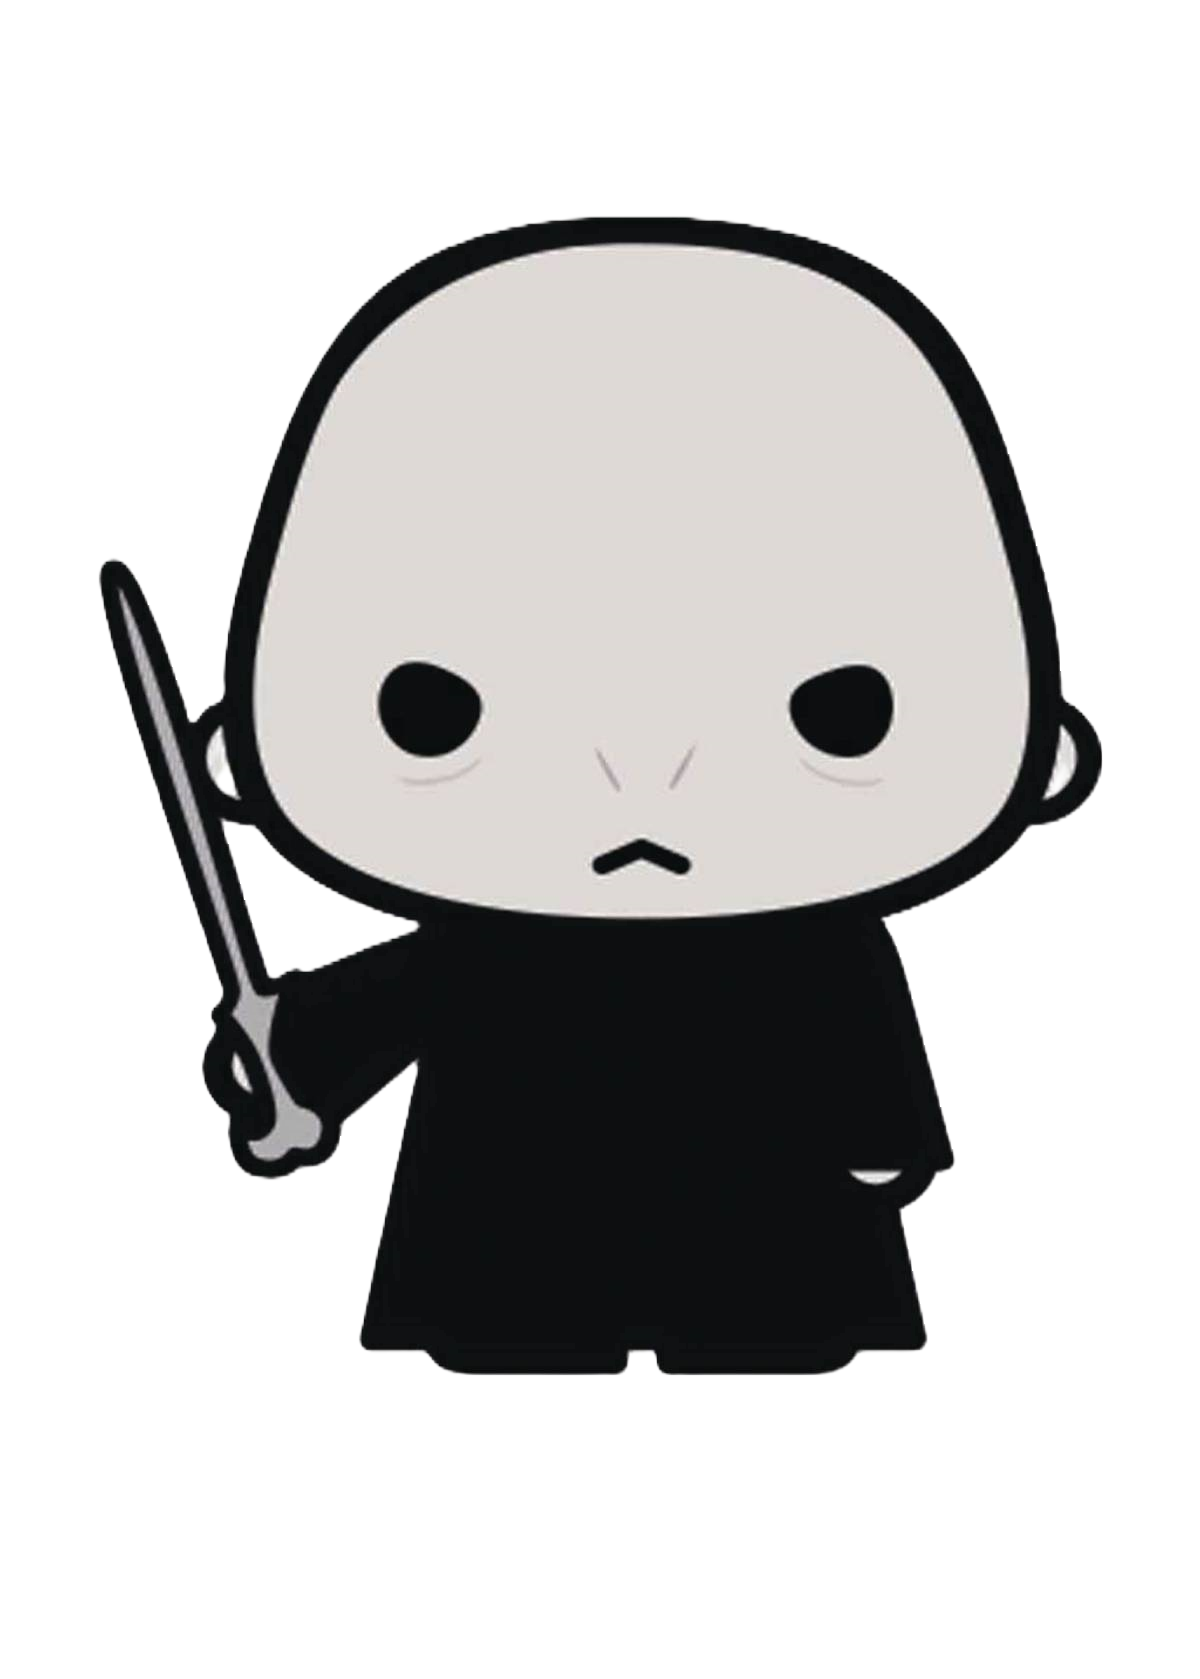
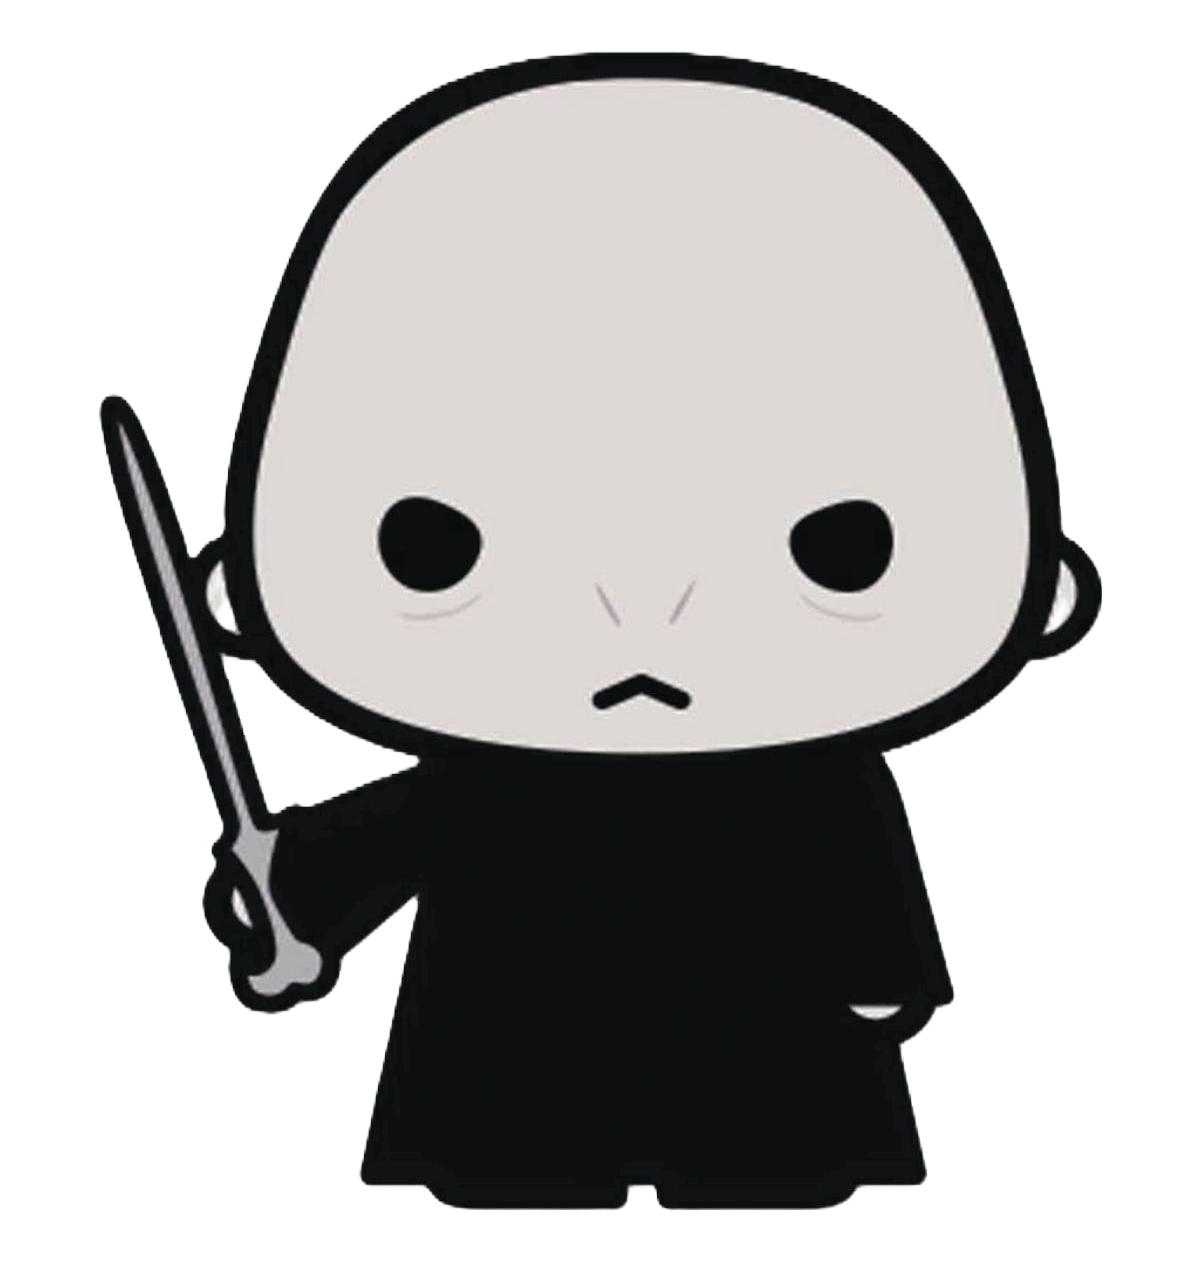
added space bar delay, added images on game over

diff --git a/js/app.js b/js/app.js
@@ -1,21 +1,25 @@
 /*-------------- Constants -------------*/
 const width = 15
-const winMessage = "You win!"
-const loseMessage = "You lose!"
 const losingIndxs = [210, 211, 212, 213, 214, 215, 216, 217, 218, 219, 220, 221, 222, 223, 224]
+const winMessage = "You win! Hogwarts is safe!"
+const loseMessage = "You lose! Voldemort has taken over Hogwarts!"
+const winImage = "images/harry-ron-hermione.png"
+const loseImage = "images/voldy.png"
+
 /*---------- Variables (state) ---------*/
+let gameOver
 let score = 0
 let lives = 3
-let gameOver
 let playerIdx = 0
 let invadersIdxs = []
 let invadersTimer
 let bombsTimer
-let gameMessage
 let invaderMoveCounter = 1
 let invaderMoveDirection = 1
-// let bombMoveTimer
-// let laserTimer
+let gameMessage
+let gameImage
+let spaceBarTimeOne = Date.now()
+let spaceBarTimeTwo
 
 /*----- Cached Element References  -----*/
 const scoreEl = document.querySelector(".score")
@@ -24,8 +28,7 @@ const messageEl = document.querySelector(".game-message")
 const cells = document.querySelectorAll(".grid > div")
 const playBtn = document.querySelector(".play-button")
 const playAganBtn = document.querySelector(".play-again-btn")
-const loseImage = document.querySelector(".lose-image")
-
+const gameOverImage = document.querySelector(".game-over-image")
 
 /*-------------- Functions -------------*/
 
@@ -39,6 +42,7 @@ function init() {
     invaderMoveCounter = 1
     invaderMoveDirection = 1
     playAganBtn.classList.add("hide")
+    gameOverImage.src = ""
     render()
 }
 
@@ -106,10 +110,17 @@ function bombHitsPlayer(bombIdx) {
 
 function playerAction(event) {
     event.preventDefault()
+    
     if (event.key === "ArrowLeft" || event.key === "ArrowRight") {
         playerMoves(event)
+
     } else if (event.key === " ") {
-        playerShoots()
+        spaceBarTimeTwo = Date.now()
+        if (spaceBarTimeTwo - spaceBarTimeOne > 500) {
+            spaceBarTimeOne = spaceBarTimeTwo
+            playerShoots()
+        }
+        
     }
     render()
 }
@@ -133,36 +144,29 @@ function playerMoves(event) {
 
 function playerShoots() {
     let laserIdx = playerIdx - width
-
     let hit = false
 
     let laserTimer = setInterval(() => {
         cells[laserIdx].classList.remove("lasers")
+        
         if (laserIdx > 15 && !gameOver) {
             laserIdx -= width
             cells[laserIdx].classList.add("lasers")
-            // laserHitsInv(laserIdx)
-            // console.log("laser index ", laserIdx);
-            // console.log("invaders indexes: ", invadersIdxs);
-            // console.log(cells);
+
             if (!hit) {
                 
                 if (invadersIdxs.includes(laserIdx)) {
                     let indexHit = invadersIdxs.findLastIndex((invaderIdx) => {
                         return invaderIdx === laserIdx
                     })
-                    // console.log("invader index hit: ", invadersIdxs[indexHit])
-                    // console.log("laser index hit: ", laserIdx);
-                    invadersIdxs.splice(indexHit, 1)
-                    // console.log("Invaders indexes post hit: ", invadersIdxs);
-                    score += 10
 
+                    invadersIdxs.splice(indexHit, 1)
+                    score += 10
                     cells[indexHit].classList.remove("invaders")
                     cells[laserIdx].classList.remove("lasers")
                     render()
                     clearInterval(laserTimer)
                     hit = true
-                    //console.log(laserIdx);
                 }
             }
 
@@ -173,80 +177,11 @@ function playerShoots() {
     }, 200)
 }
 
-// function laserHitsInv(laserIdx) {
-//     // console.log(laserIdx)
-//     if (invadersIdxs.includes(laserIdx)) {
-//         let indexHit = invadersIdxs.findIndex((invaderIdx) => {
-//             return invaderIdx === laserIdx
-//         })
-//         invadersIdxs.splice(indexHit, 1)
-//         score += 10
-//         clearInterval(laserTimer)
-//         cells[laserIdx].classList.remove("lasers")
-
-//         //console.log(laserIdx);
-//     }
-// }
-
-function loseGame() {
-
-    if (invadersIdxs.some((invaderIdx) => {
-        return losingIndxs.includes(invaderIdx)
-    }) || lives === 0) {
-        gameOver = true
-        gameMessage = loseMessage
-        renderGameOver()
-    }
-}
-
-function winGame() {
-    if (invadersIdxs.length === 0) {
-        gameOver = true
-        gameMessage = winMessage
-        renderGameOver()
-    }
-}
-
-function renderGameOver() {
-    if (gameOver) {
-        clearInterval(invadersTimer)
-        clearInterval(bombsTimer)
-        // clearInterval(bombMoveTimer)
-        // clearInterval(laserTimer)
-        messageEl.innerText = gameMessage
-        playAganBtn.classList.remove("hide")
-        loseImage.classList.remove("hide")
-        cells.forEach((cell, idx) => {
-            cells[idx].classList.remove("bombs")
-            cells[idx].classList.remove("lasers")
-        })
-        document.removeEventListener("keyup", playerAction)
-    }
-}
-
-
-// function renderBombs(bombIdx) {
-//     cells[bombIdx].classList.remove("bombs")
-
-
-//     cells[bombIdx].classList.add("bombs")
-// }
-
-// function renderLasers(laserIdx) {
-//     cells.forEach((cell, idx) => {
-
-//         cells[idx].classList.remove("lasers")
-//     })
-
-//     cells[laserIdx].classList.add("lasers")
-// }
-
 function render() {
     cells.forEach((cell, idx) => {
         cells[idx].classList.remove("player")
         cells[idx].classList.remove("invaders")
     })
-
 
     cells[playerIdx].classList.add("player")
     invadersIdxs.forEach((invaderIdx) => {
@@ -258,13 +193,46 @@ function render() {
     messageEl.innerText = gameMessage
 }
 
+function loseGame() {
+    if (invadersIdxs.some((invaderIdx) => {
+        return losingIndxs.includes(invaderIdx)
+    }) || lives === 0) {
+        gameOver = true
+        gameMessage = loseMessage
+        gameImage = loseImage
+        renderGameOver()
+    }
+}
+
+function winGame() {
+    if (invadersIdxs.length === 0) {
+        gameOver = true
+        gameMessage = winMessage
+        gameImage = winImage
+        renderGameOver()
+    }
+}
+
+function renderGameOver() {
+    if (gameOver) {
+        clearInterval(invadersTimer)
+        clearInterval(bombsTimer)
+        messageEl.innerText = gameMessage
+        playAganBtn.classList.remove("hide")
+        gameOverImage.src = gameImage
+        cells.forEach((cell, idx) => {
+            cells[idx].classList.remove("bombs")
+            cells[idx].classList.remove("lasers")
+        })
+        document.removeEventListener("keyup", playerAction)
+    }
+}
+
 function restartGame() {
     init()
     startGame()
 }
 
-
 /*----------- Event Listeners ----------*/
 playBtn.addEventListener("click", startGame)
-
 playAganBtn.addEventListener("click", restartGame)

diff --git a/css/style.css b/css/style.css
@@ -17,9 +17,15 @@ h1 {
     margin: 30px auto;
 }
 
+.intro {
+    margin: 0 auto;
+    width: 600px;
+
+}
+
 .controls {
     display: flex;
-    width: 650px;
+    width: 600px;
     margin: 0 auto 10px;
     justify-content: space-around;
 }
@@ -27,9 +33,10 @@ h1 {
 .stats {
     font-family: "Sedan SC", sans-serif;
     display: flex;
-    width: 650px;
+    width: 600px;
     margin: 0 auto 10px;
-    justify-content: space-around;
+    justify-content: space-between;
+    padding: 0 5px;
 }
 
 .grid-wrapper {
@@ -41,7 +48,7 @@ h1 {
     display: flex;
     flex-wrap: wrap;
     width: 600px;
-    background-image: url("../images/hogwarts-2.png");
+    background-image: url("../images/hogwarts.png");
     background-size: cover;
     background-position: center;
     background-color: rgb(4, 5, 44);
@@ -59,6 +66,10 @@ button {
     margin: 20px;
     padding: 5px 20px;
     border-radius: 10px;
+    background-color: rgb(4, 5, 44);
+    color: rgb(209, 210, 229);
+    font-family: "Roboto Slab", sans-serif;
+    font-size: 16px;
 }
 
 .player {
@@ -77,14 +88,14 @@ button {
 }
 
 .bombs {
-    background-image: url("../images/green-spell.png");
+    background-image: url("../images/green-spell-2.png");
     background-repeat: no-repeat;
     background-size: contain;
     background-position: center;
 }
 
 .lasers {
-    background-image: url("../images/red-spell.png");
+    background-image: url("../images/red-spell-2.png");
     background-repeat: no-repeat;
     background-size: contain;
     background-position: center;
@@ -94,6 +105,6 @@ button {
     display: none;
 }
 
-.lose-image {
+img {
     height: 100px;
 }

diff --git a/index.html b/index.html
@@ -11,15 +11,18 @@
 
 <body>
     <h1>The Battle of Hogwarts</h1>
-    <h3>How to play:</h3>
-    <p>Cast spells to destroy the death eaters before they get you and take Hogwarts!</p>
+    <div class="intro">
+        <h3>How to play:</h3>
+        <p>Cast spells to destroy the death eaters before they get to you and take Hogwarts! You lose a life if a death
+            eater's spell hits you. </p>
+    </div>
     <div class="controls">
         <p>⬅ move left</p>
         <p>➡ move right</p>
         <p>Space bar: cast a spell</p>
     </div>
     <div class="game-status">
-        <img class="lose-image hide" src="">
+        <img class="game-over-image" src="">
         <h3 class="game-message"></h3>
     </div>
     <div class="stats">
